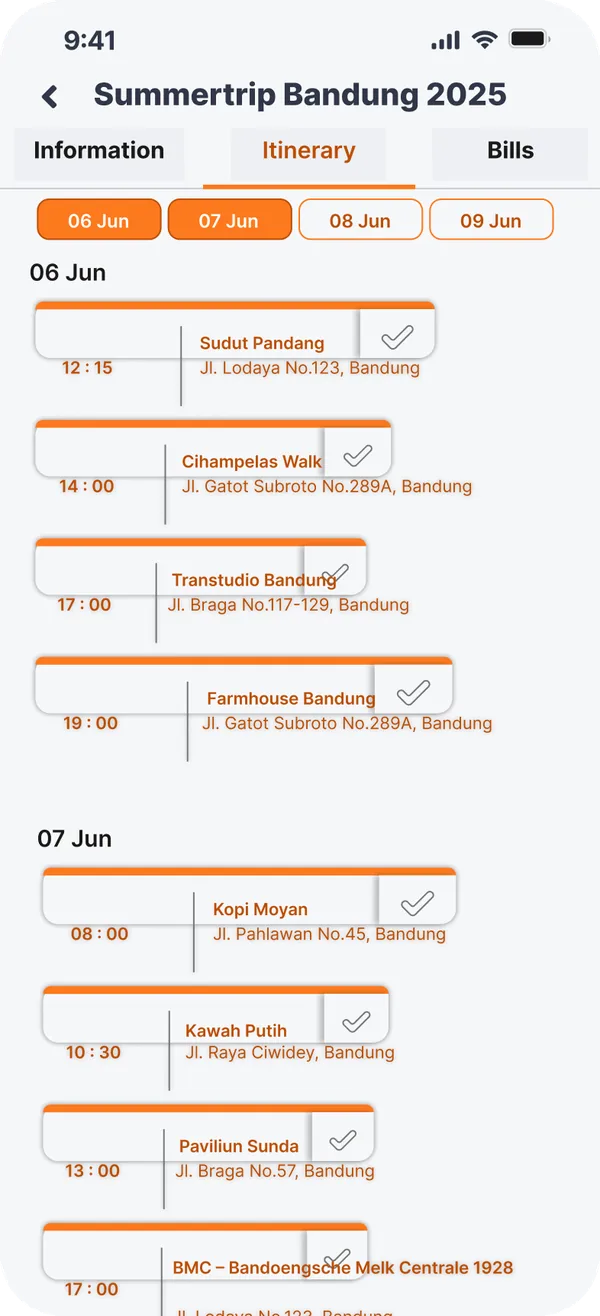
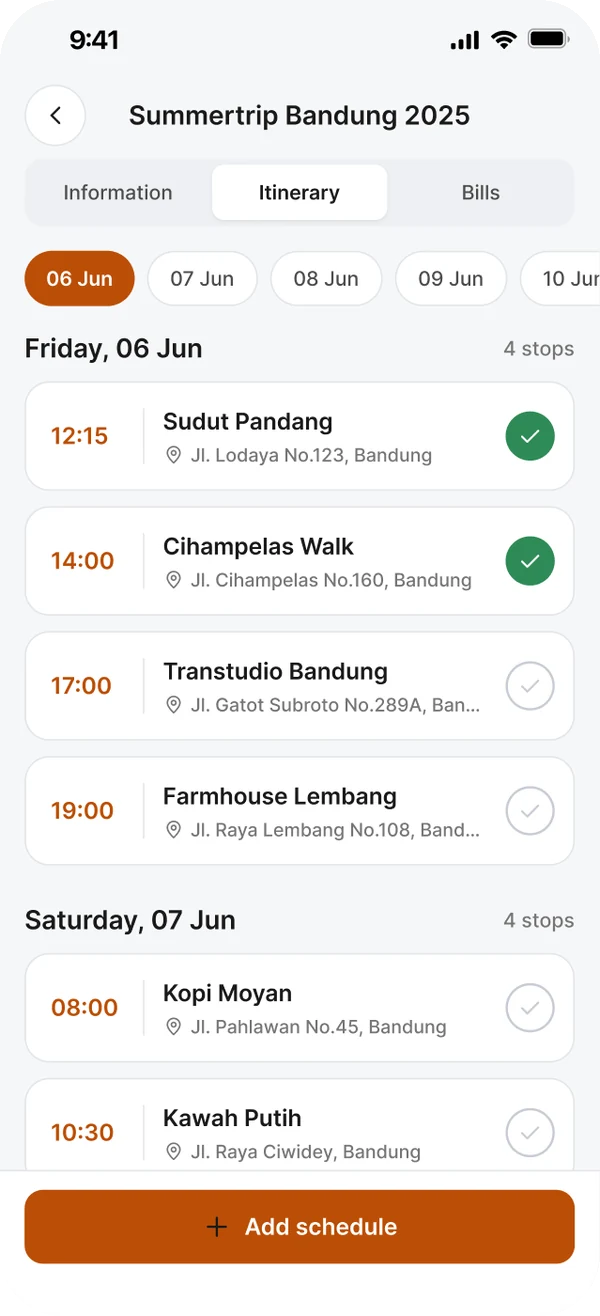
feat(holinery): use rebuilt polished screens
Re-export all eight phone screens and the cover from the new
Redesign · Polished section (auto-layout, shared components,
aligned bills table). Update the spec note to say the screens were
rebuilt on the original flows and content.

diff --git a/src/content/caseStudies/holinery.js b/src/content/caseStudies/holinery.js
@@ -10,9 +10,10 @@
 //   - persona dari laporan, ditampilkan tanpa foto.
 //
 // Sumber: laporan UAS (Fransiskus_Asisi_Brian_..._IF450_C_UAS) dan
-// file Figma "HCI-UI-Holinery (Copy)", page "Redesign · Clean".
-// Visual dirapikan untuk portofolio (satu font, token warna) — ditulis
-// di spec agar tidak terbaca sebagai hasil asli tugas.
+// file Figma "HCI-UI-Holinery (Copy)", section "Redesign · Polished".
+// Screen dibangun ulang untuk portofolio (auto-layout, komponen, satu
+// font, token warna) di atas alur dan konten asli — ditulis di spec
+// agar tidak terbaca sebagai hasil asli tugas.
 
 const phone = (name, alt, label) => ({
   src: `/projects/holinery/${name}.webp`,
@@ -40,7 +41,7 @@ export const holinery = {
     { key: "My part", value: "Most of the high-fidelity screens, prototype wiring, and the splash screen" },
     { key: "Result", value: "Grade A" },
     { key: "Method", value: "User-Centered Design · reviewed against Shneiderman’s 8 Golden Rules and Gestalt" },
-    { key: "Note", value: "Visuals tidied for this portfolio: one typeface (Inter), colour tokens, contrast-checked buttons" },
+    { key: "Note", value: "Screens rebuilt for this portfolio on the original flows and content: one typeface (Inter), colour tokens, shared components, contrast-checked buttons" },
   ],
 
   problem: {
